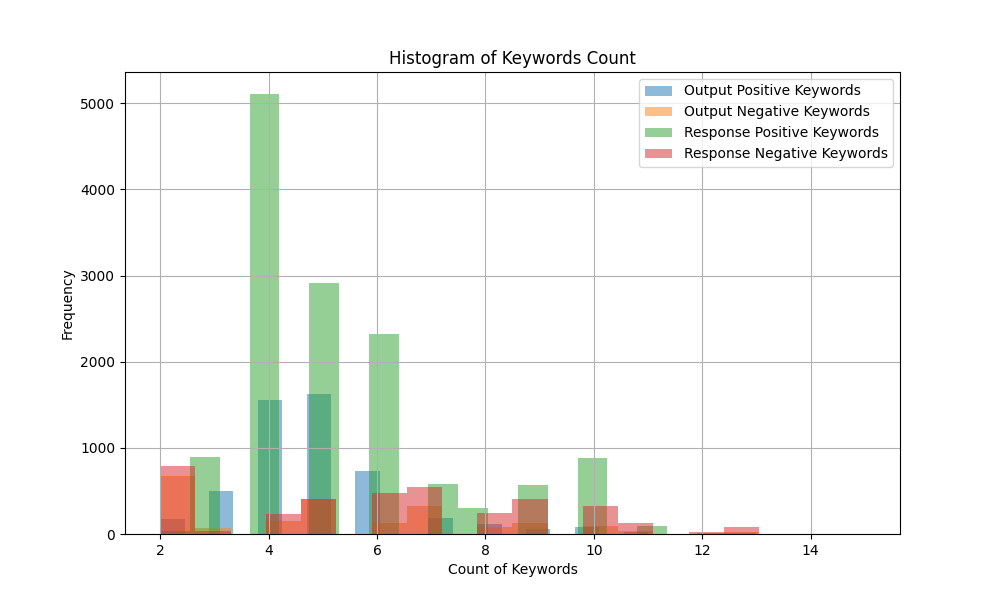
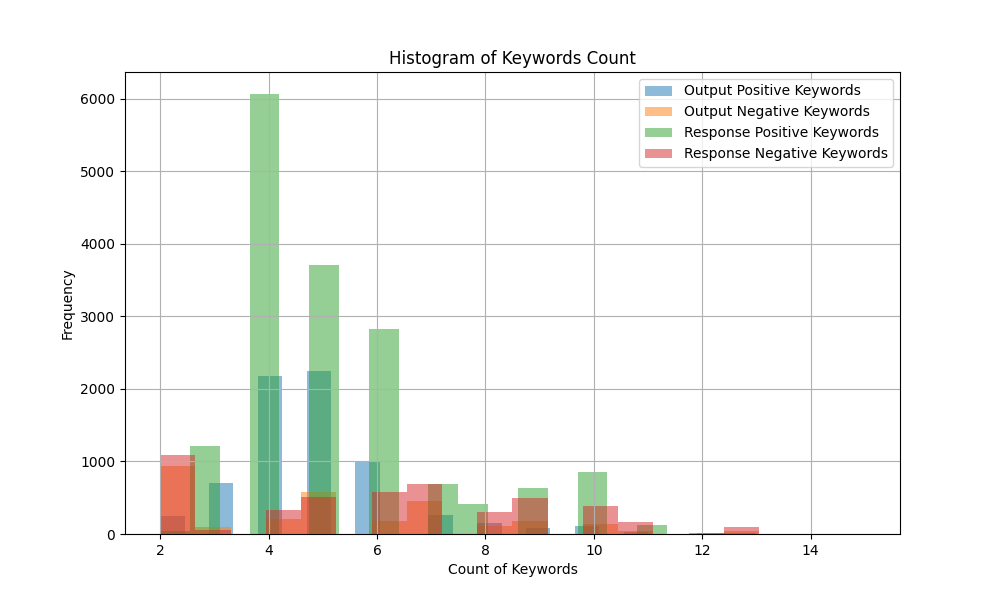
Update hist plot

diff --git a/extract_pos_neg.py b/extract_pos_neg.py
@@ -40,7 +40,7 @@ with open('user4_w_key.jsonl', 'r') as jsonl_file:
             
             # Perform Named Entity Recognition (NER) using sNLP
             if 'response' in json_obj:
-                if len(json_obj['response'].split(' ')) > 300: continue
+                if len(json_obj['response'].split(' ')) > 100: continue
                 # Extract positive and negative keywords from the response
                 response_keywords = extract_keywords(json_obj['response'])
                 
